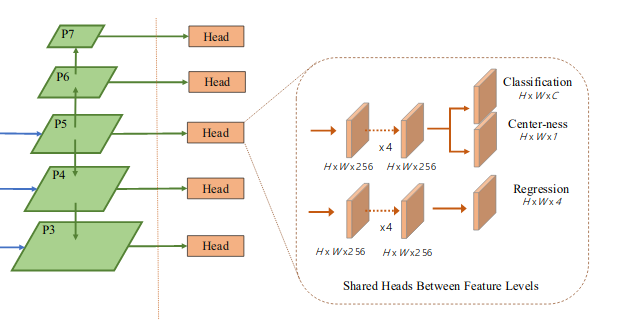
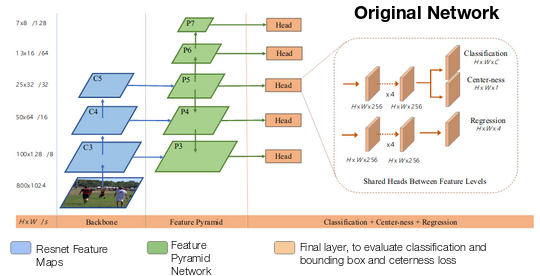
Add existing file

diff --git a/README.md b/README.md
@@ -4,7 +4,7 @@
 ## Abstract
 This is a tensorflow implementation is inspired by [FCOS: Fully Convolutional One-Stage Object Detection](https://arxiv.org/abs/1904.01355), the code is derived from [DetectionTeamUCAS](https://github.com/DetectionTeamUCAS/FCOS_Tensorflow).     
 
-## Original Implementation
+## Original Network
 ![1](Original_FCOS.png)         
 ## Current Implementation
 ![2](FCOS+Seg.png)         
